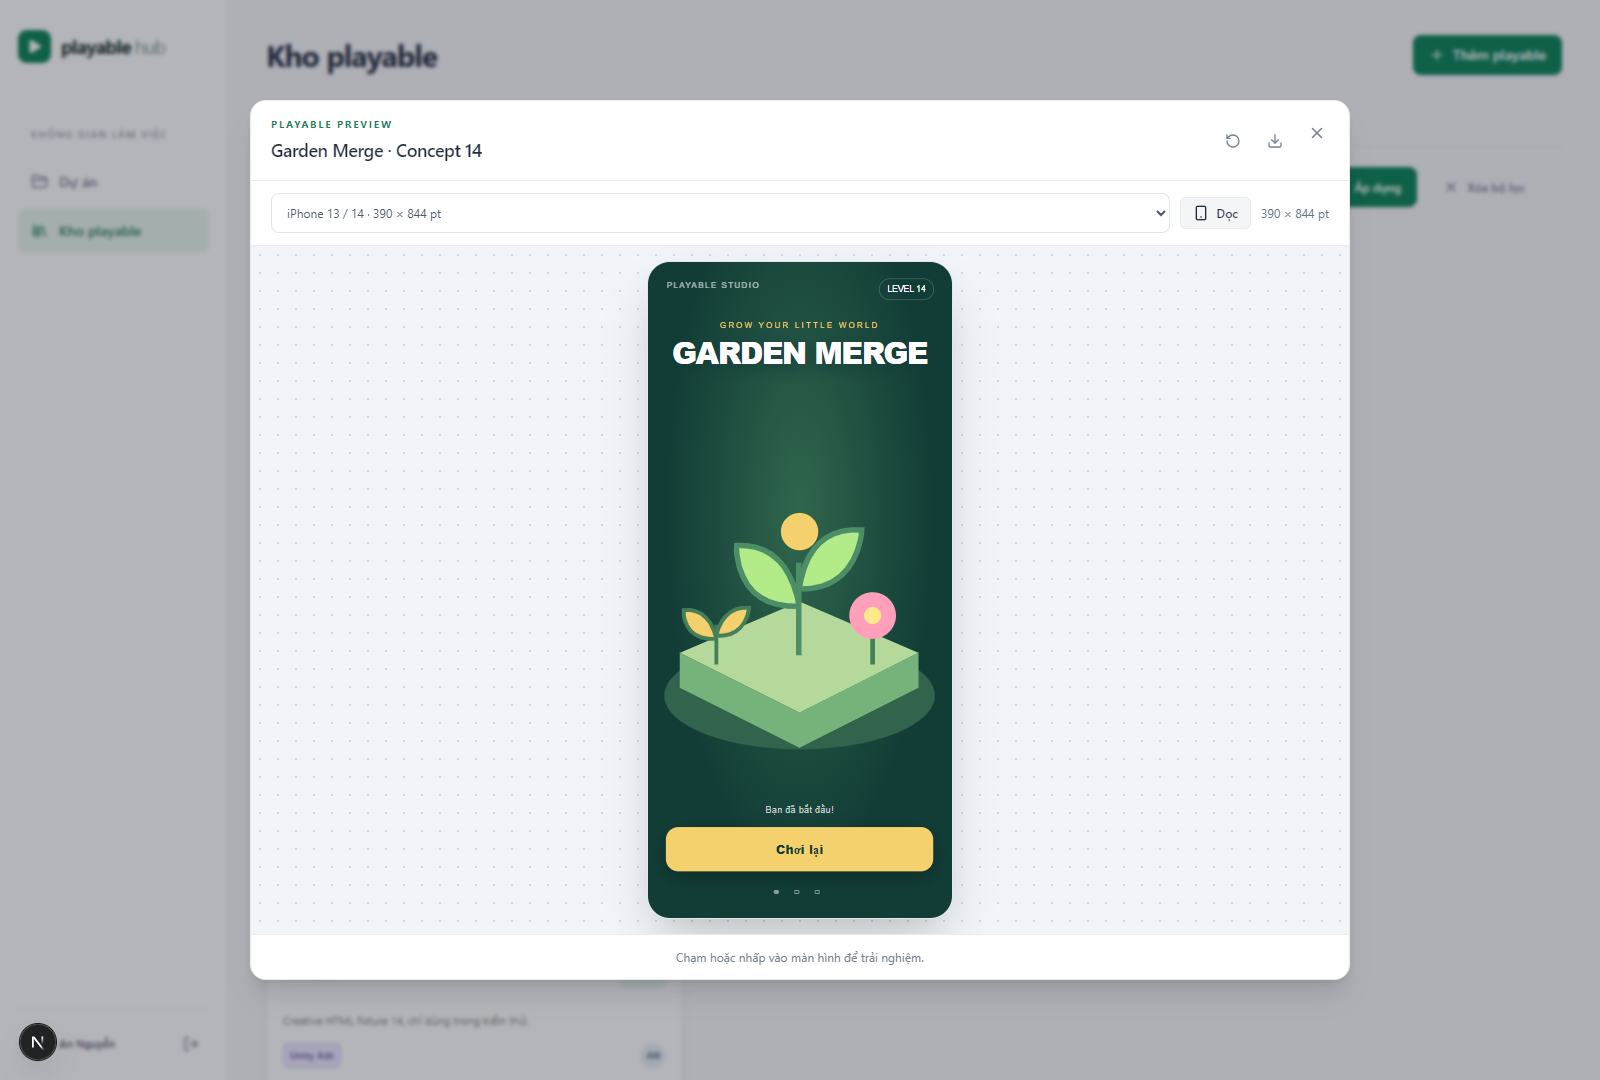
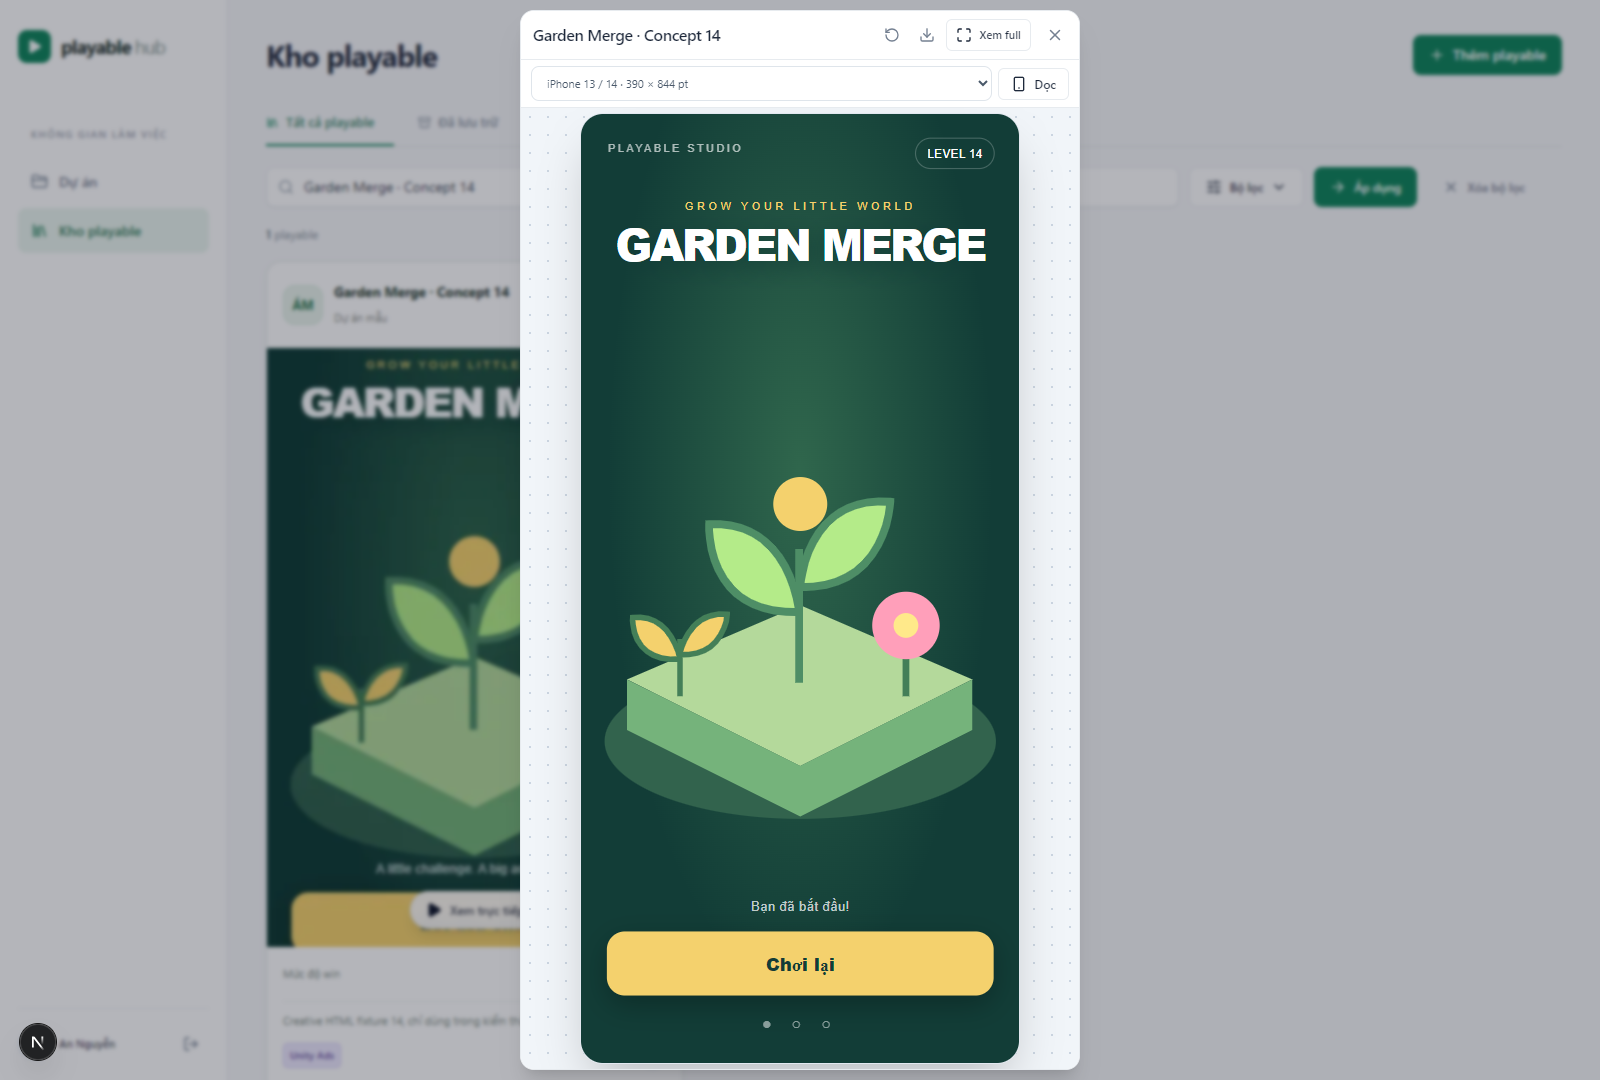
Maximize playable preview area and add immersive fullscreen mode

diff --git a/components/playable-preview.tsx b/components/playable-preview.tsx
@@ -1,7 +1,7 @@
 "use client";
 
-import { useEffect, useId, useState, type ReactNode } from "react";
-import { Download, ExternalLink, Monitor, Play, RotateCcw, Smartphone } from "lucide-react";
+import { useEffect, useId, useRef, useState, type ReactNode } from "react";
+import { Download, ExternalLink, Maximize, Minimize, Monitor, Play, RotateCcw, Smartphone } from "lucide-react";
 import { Dialog, DialogContent, DialogDescription, DialogTitle, DialogTrigger } from "@/components/ui/dialog";
 import { Button } from "@/components/ui/button";
 import { createPreviewDocument, PREVIEW_DEVICES, PREVIEW_SANDBOX, type PreviewPlayable } from "@/lib/preview";
@@ -22,6 +22,9 @@ function PreviewPlayer({ playable }: { playable: PreviewPlayable }) {
   const [state, setState] = useState<LoadState>({ status: "loading" });
   const [reload, setReload] = useState(0);
   const [landscape, setLandscape] = useState(false);
+  const [expanded, setExpanded] = useState(false);
+  const dialog = useRef<HTMLDivElement>(null);
+  const fullscreenOwner = useRef<HTMLElement | null>(null);
   const [deviceId, setDeviceId] = useState<string>(PREVIEW_DEVICES[0].id);
   const deviceSelectId = useId();
   const [loaded, setLoaded] = useState(false);
@@ -30,9 +33,41 @@ function PreviewPlayer({ playable }: { playable: PreviewPlayable }) {
   const device = PREVIEW_DEVICES.find(item => item.id === deviceId) ?? PREVIEW_DEVICES[0];
   const width = landscape ? device.height : device.width;
   const height = landscape ? device.width : device.height;
-  const scale = Math.max(0.1, Math.min(1, (available.width - 32) / width, (available.height - 32) / height));
+  const scale = Math.max(0.01, Math.min((available.width - 12) / width, (available.height - 12) / height));
 
   useEffect(() => beginPreviewPlayback(), []);
+
+  useEffect(() => {
+    const changed = () => {
+      if (fullscreenOwner.current && document.fullscreenElement !== fullscreenOwner.current) {
+        fullscreenOwner.current = null;
+        setExpanded(false);
+      }
+    };
+    document.addEventListener("fullscreenchange", changed);
+    return () => {
+      document.removeEventListener("fullscreenchange", changed);
+      if (fullscreenOwner.current && document.fullscreenElement === fullscreenOwner.current) {
+        void document.exitFullscreen().catch(() => {});
+      }
+    };
+  }, []);
+
+  async function toggleExpanded() {
+    if (expanded) {
+      if (document.fullscreenElement === dialog.current) await document.exitFullscreen().catch(() => {});
+      setExpanded(false);
+      return;
+    }
+    setExpanded(true);
+    const element = dialog.current;
+    // The edge-to-edge layout also works when browser fullscreen is unavailable.
+    if (element && document.fullscreenEnabled && element.requestFullscreen) {
+      fullscreenOwner.current = element;
+      try { await element.requestFullscreen(); }
+      catch { fullscreenOwner.current = null; }
+    }
+  }
 
   useEffect(() => {
     const controller = new AbortController();
@@ -55,13 +90,14 @@ function PreviewPlayer({ playable }: { playable: PreviewPlayable }) {
   function restart() { setLoaded(false); setState({ status: "loading" }); setReload(value => value + 1); }
   const source = state.status === "ready" ? state.source : null;
 
-  return <DialogContent className="preview-dialog flex h-[min(92dvh,880px)] max-w-[1100px] flex-col gap-0 overflow-hidden rounded-2xl p-0 sm:max-w-[1100px]" aria-describedby="preview-description">
-    <div className="flex min-h-20 shrink-0 flex-wrap items-center justify-between gap-3 border-b bg-white px-5 py-4 pr-14">
-      <div className="min-w-0"><span className="mb-1 block text-[10px] font-bold uppercase tracking-[.18em] text-primary">PLAYABLE PREVIEW</span><DialogTitle className="truncate text-lg" aria-label={`Xem trực tiếp ${playable.name}`}>{playable.name}</DialogTitle></div>
-      <div className="flex items-center gap-1.5">
+  return <DialogContent ref={dialog} data-expanded={expanded} data-landscape={landscape} className="preview-dialog flex flex-col gap-0 overflow-hidden p-0" style={expanded ? { translate: "none" } : undefined} aria-describedby="preview-description" onEscapeKeyDown={event => { if (expanded) { event.preventDefault(); void toggleExpanded(); } }}>
+    <div className="preview-header">
+      <DialogTitle className="min-w-0 flex-1 truncate text-base" aria-label={`Xem trực tiếp ${playable.name}`}>{playable.name}</DialogTitle>
+      <div className="preview-actions">
         <Button variant="ghost" size="icon" aria-label="Chạy lại preview" onClick={restart}><RotateCcw /></Button>
         {playable.storage_path && <Button asChild variant="ghost" size="icon"><a href={`/api/files/${playable.id}`} aria-label="Tải playable"><Download /></a></Button>}
         {playable.external_url && <Button asChild variant="ghost" size="icon"><a href={playable.external_url} target="_blank" rel="noopener noreferrer" aria-label="Mở liên kết gốc"><ExternalLink /></a></Button>}
+        <Button variant="outline" size="sm" className="preview-expand-button" aria-label={expanded ? "Thu nhỏ preview" : "Xem toàn màn hình"} title={expanded ? "Thu nhỏ preview" : "Xem toàn màn hình"} aria-pressed={expanded} onClick={() => void toggleExpanded()}>{expanded ? <Minimize /> : <Maximize />}<span>{expanded ? "Thu nhỏ" : "Xem full"}</span></Button>
       </div>
     </div>
     <div className="preview-device-toolbar">
@@ -69,8 +105,8 @@ function PreviewPlayer({ playable }: { playable: PreviewPlayable }) {
       <select id={deviceSelectId} className="select preview-device-select" value={deviceId} onChange={event => setDeviceId(event.target.value)}>
         {PREVIEW_DEVICES.map(item => <option key={item.id} value={item.id}>{item.name} · {item.width} × {item.height} {item.unit}</option>)}
       </select>
-      <Button variant="outline" size="sm" aria-label={landscape ? "Chuyển màn hình dọc" : "Chuyển màn hình ngang"} aria-pressed={landscape} onClick={() => setLandscape(value => !value)}>{landscape ? <Monitor /> : <Smartphone />}{landscape ? "Ngang" : "Dọc"}</Button>
-      <output className="preview-viewport-size" aria-live="polite" aria-label="Kích thước preview">{width} × {height} {device.unit}</output>
+      <Button variant="outline" size="sm" aria-label={landscape ? "Chuyển màn hình dọc" : "Chuyển màn hình ngang"} aria-pressed={landscape} onClick={() => setLandscape(value => !value)}>{landscape ? <Monitor /> : <Smartphone />}<span className="preview-orientation-label">{landscape ? "Ngang" : "Dọc"}</span></Button>
+      <output className="sr-only" aria-live="polite" aria-label="Kích thước preview">{width} × {height} {device.unit}</output>
     </div>
     <div ref={setStage} className="preview-stage relative flex min-h-0 flex-1 items-center justify-center overflow-hidden bg-slate-100" style={{ backgroundImage: "radial-gradient(#cbd5e1 1px, transparent 1px)", backgroundSize: "18px 18px" }}>
       {state.status === "loading" && <div className="preview-shimmer relative overflow-hidden rounded-3xl bg-slate-200" role="status" aria-label="Đang tải preview" style={{ width: width * scale, height: height * scale }}><div className="absolute inset-x-6 bottom-8 h-12 rounded-xl bg-white/45" /><span className="sr-only">Đang tải preview…</span></div>}
@@ -82,6 +118,6 @@ function PreviewPlayer({ playable }: { playable: PreviewPlayable }) {
         </div>
       </div>}
     </div>
-    <DialogDescription id="preview-description" className="shrink-0 border-t bg-white px-5 py-3 text-center text-xs leading-5">{source?.kind === "external" ? <>Nếu trang không hiển thị, <a className="font-medium text-primary underline underline-offset-2" href={source.url} target="_blank" rel="noopener noreferrer">mở liên kết gốc</a>.</> : "Chạm hoặc nhấp vào màn hình để trải nghiệm."}</DialogDescription>
+    <DialogDescription id="preview-description" className="sr-only">Chọn thiết bị, xoay khung hoặc xem toàn màn hình. Nhấp hoặc chạm vào playable để trải nghiệm. Liên kết ngoài có thể được mở bằng nút Mở liên kết gốc.</DialogDescription>
   </DialogContent>;
 }

diff --git a/app/globals.css b/app/globals.css
@@ -176,9 +176,21 @@ a.entity-name:hover { color: var(--primary); }
 .preview-shimmer { position: relative; overflow: hidden; }
 .preview-shimmer::after { content: ""; position: absolute; inset: 0; background: linear-gradient(100deg, transparent 20%, #ffffff80 50%, transparent 80%); transform: translateX(-100%); animation: shimmer 1.6s ease-in-out infinite; pointer-events: none; }
 .playable-cover > button > span { position: absolute; bottom: 18px; font-size: 12px; padding: 10px 15px; }
-.preview-dialog { width: calc(100vw - 32px); }
-.preview-device-toolbar { display: flex; flex-shrink: 0; align-items: center; flex-wrap: wrap; gap: 10px; border-bottom: 1px solid #e7ebef; padding: 12px 20px; background: #fff; }
-.preview-device-select { width: auto; max-width: 100%; min-width: 250px; flex: 1 1 250px; }
+.preview-dialog { width: min(calc(100vw - 20px),560px); height: calc(100dvh - 20px); max-width: none; max-height: calc(100dvh - 20px); border-radius: 14px; }
+.preview-dialog[data-landscape="true"] { width: min(calc(100vw - 20px),1120px); height: min(calc(100dvh - 20px),720px); }
+.preview-dialog[data-expanded="true"] { inset: 0; transform: none; width: 100vw; height: 100dvh; max-width: none; max-height: none; border: 0; border-radius: 0; }
+.preview-dialog::backdrop { background: #f1f5f9; }
+.preview-dialog > button:last-child { top: 8px; right: 8px; width: 32px; height: 32px; }
+.preview-header { display: flex; align-items: center; flex-shrink: 0; gap: 8px; min-height: 48px; padding: 8px 48px 8px 12px; border-bottom: 1px solid #e7ebef; background: white; }
+.preview-actions { display: flex; align-items: center; flex-shrink: 0; gap: 3px; }
+.preview-actions > :is(button,a) { width: 32px; height: 32px; }
+.preview-actions .preview-expand-button { width: auto; padding-inline: 9px; font-size: 11px; }
+.preview-dialog[data-expanded="true"] .preview-device-toolbar { display: none; }
+.preview-dialog[data-expanded="true"] .preview-header { position: absolute; top: 8px; right: 48px; z-index: 20; min-height: 0; padding: 0; border: 0; border-radius: 8px; background: #ffffffe6; }
+.preview-dialog[data-expanded="true"] .preview-header > :first-child,.preview-dialog[data-expanded="true"] .preview-actions > :not(.preview-expand-button) { display: none; }
+.preview-dialog[data-expanded="true"] > button:last-child { z-index: 20; background: #ffffffe6; }
+.preview-device-toolbar { display: flex; flex-shrink: 0; align-items: center; flex-wrap: nowrap; gap: 6px; border-bottom: 1px solid #e7ebef; padding: 6px 10px; background: #fff; }
+.preview-device-select { width: auto; max-width: 100%; min-width: 0; flex: 1 1 0; min-height: 34px; font-size: 11px; }
 .preview-viewport-size { font-size: 12px; font-variant-numeric: tabular-nums; color: #64748b; white-space: nowrap; }
 .network-chip.network-unity,.playable-card .network-chip.network-unity { background: #ede9fe; border-color: #d8ccfa; color: #6235a6; font-weight: 600; }
 .playable-card-win { display: flex; align-items: center; justify-content: space-between; gap: 10px; margin-bottom: 12px; padding-bottom: 12px; border-bottom: 1px solid #edf1ee; }
@@ -186,7 +198,7 @@ a.entity-name:hover { color: var(--primary); }
 .playable-card-win .badge { padding: 6px 9px; font-size: 11px; }
 .playable-card-note { font-size: 11px; line-height: 1.6; color: #6c7b72; margin: -2px 0 12px; overflow: hidden; display: -webkit-box; -webkit-line-clamp: 2; -webkit-box-orient: vertical; overflow-wrap: anywhere; }
 .project-open-button { margin-top: 18px; width: 100%; justify-content: center; }
-@media (max-width: 580px) { .preview-device-toolbar { padding: 10px 14px; gap: 8px; } .preview-device-select { flex-basis: 100%; min-width: 0; } .preview-viewport-size { margin-left: auto; } }
+@media (max-width: 580px) { .preview-dialog,.preview-dialog[data-landscape="true"] { width: 100vw; height: 100dvh; max-height: 100dvh; border: 0; border-radius: 0; } .preview-header { padding-left: 10px; } .preview-expand-button span { display: none; } .preview-orientation-label { display: none; } }
 .filters .search-field { max-width: none; }
 @media (min-width: 1740px) { .playable-grid,.playable-gallery { grid-template-columns: repeat(4,minmax(0,1fr)); } }
 @media (max-width: 1190px) { .playable-grid,.playable-gallery,.project-grid { grid-template-columns: repeat(2,minmax(0,1fr)); } }

diff --git a/tests/e2e/hub.spec.ts b/tests/e2e/hub.spec.ts
@@ -243,16 +243,53 @@ test("HTML covers become static images and live review plays in an isolated resp
   }
   await clickPlayableButton("Bắt đầu chơi");
   await expect(creative.getByText("Bạn đã bắt đầu!", { exact: true })).toBeVisible();
+  expect((await player.locator(".preview-header").boundingBox())!.height).toBeLessThanOrEqual(56);
+  expect((await player.boundingBox())!.width).toBeLessThan(650);
+  expect((await iframe.boundingBox())!.height).toBeGreaterThan(1080 * 0.82);
   await mkdir("artifacts/qa", { recursive: true });
   await page.screenshot({ path: "artifacts/qa/live-preview.png" });
+
+  await player.getByRole("button", { name: "Xem toàn màn hình", exact: true }).click();
+  await expect(player).toHaveAttribute("data-expanded", "true");
+  await expect.poll(() => player.evaluate(element => {
+    const rect = element.getBoundingClientRect();
+    return Math.abs(rect.width - innerWidth) < 2 && Math.abs(rect.height - innerHeight) < 2 && Math.abs(rect.x) < 1 && Math.abs(rect.y) < 1;
+  })).toBe(true);
+  await expect.poll(() => creative.locator("html").evaluate(() => [innerWidth, innerHeight])).toEqual([390, 844]);
+  expect((await iframe.boundingBox())!.height).toBeGreaterThan(1080 * 0.95);
+  await expect(creative.getByText("Bạn đã bắt đầu!", { exact: true })).toBeVisible();
+  await clickPlayableButton("Chơi lại");
+  await page.screenshot({ path: "artifacts/qa/live-preview-fullscreen.png" });
+  await player.focus();
+  await page.keyboard.press("Escape");
+  await expect(player).toHaveAttribute("data-expanded", "false");
+  await expect(player).toBeVisible();
+  await expect.poll(() => page.evaluate(() => document.fullscreenElement === null)).toBe(true);
+
+  // Verify the viewport-filling fallback when native fullscreen is unavailable.
+  await page.evaluate(() => Object.defineProperty(document, "fullscreenEnabled", { configurable: true, value: false }));
+  await player.getByRole("button", { name: "Xem toàn màn hình", exact: true }).click();
+  await expect(player).toHaveAttribute("data-expanded", "true");
+  await expect.poll(() => player.evaluate(element => Math.abs(element.getBoundingClientRect().height - innerHeight) < 2)).toBe(true);
+  await player.getByRole("button", { name: "Thu nhỏ preview", exact: true }).click();
+  await expect(player).toHaveAttribute("data-expanded", "false");
 
   await page.setViewportSize({ width: 390, height: 844 });
   expect(await page.evaluate(() => document.documentElement.scrollWidth <= window.innerWidth + 1)).toBe(true);
   await expect.poll(() => creative.locator("html").evaluate(() => [window.innerWidth, window.innerHeight])).toEqual([390, 844]);
+  expect((await iframe.boundingBox())!.height).toBeGreaterThan(844 * 0.8);
   // Pointer input must still work through the fitted frame on mobile.
   await clickPlayableButton("Chơi lại");
   await expect(creative.getByText("Bạn đã bắt đầu!", { exact: true })).toBeVisible();
   await page.screenshot({ path: "artifacts/qa/live-preview-mobile.png" });
+  await player.getByRole("button", { name: "Xem toàn màn hình", exact: true }).click();
+  await expect(player).toHaveAttribute("data-expanded", "true");
+  await expect.poll(async () => (await iframe.boundingBox())!.height).toBeGreaterThan(844 * 0.95);
+  await expect.poll(() => creative.locator("html").evaluate(() => [innerWidth, innerHeight])).toEqual([390, 844]);
+  await clickPlayableButton("Chơi lại");
+  await page.screenshot({ path: "artifacts/qa/live-preview-mobile-fullscreen.png" });
+  await player.getByRole("button", { name: "Thu nhỏ preview", exact: true }).click();
+  await expect(player).toHaveAttribute("data-expanded", "false");
   await player.focus();
   await page.keyboard.press("Escape");
   await expect(player).toBeHidden();

diff --git a/README.md b/README.md
@@ -15,6 +15,7 @@ Theo yêu cầu mở rộng sau MVP, kho playable dùng **card có ảnh lớn**
 - Mỗi lần chỉ có một tác vụ tải HTML và tạo ảnh. Tác vụ bị hủy khi card ra khỏi vùng nhìn hoặc khi mở trình xem trực tiếp; iframe tạo ảnh được gỡ sau khi hoàn tất. Trình xem có màn hình dọc/ngang, chạy lại và dừng hẳn khi đóng.
 - Trình xem có 7 preset theo kích thước thiết kế: iPhone 13/14 (390 × 844 pt), iPhone 15/16 (393 × 852 pt), iPhone 15 Pro Max (430 × 932 pt), iPhone 16 Pro (402 × 874 pt), iPhone 16 Pro Max (440 × 956 pt), Android phổ biến (360 × 800 dp) và Android màn hình lớn (412 × 915 dp). Viewport HTML giữ đúng số pixel logic đã chọn; chỉ khung hiển thị được thu nhỏ để vừa màn hình. Có thể xoay ngang/dọc mà không tải lại build. Đây là mô phỏng kích thước, không đổi hệ điều hành hoặc trình duyệt đang dùng.
 - Card playable hiển thị rõ mức Win và ghi chú (nếu có), tag Unity Ads có màu tím riêng. Nút **Xem dự án** trên card dự án mở kho playable của đúng dự án.
+- Preview dùng khung dọc gọn, tận dụng chiều cao cửa sổ và tự phóng lớn khi còn chỗ. Nút **Xem full** ẩn thanh thiết bị và mở toàn màn hình, chỉ giữ **Thu nhỏ** và **Đóng**. Escape thoát chế độ full trước; có thể tiếp tục xem trong dialog. Khi trình duyệt không hỗ trợ fullscreen, khung mở rộng kín cửa sổ ứng dụng. Đổi chế độ không tải lại playable và vẫn giữ đúng viewport thiết bị.
 - HTML chạy trong iframe có origin cách ly, chỉ bật script; không truy cập phiên đăng nhập hoặc DOM ứng dụng. Server xác thực và áp dụng RLS trước khi cấp URL ngắn hạn; trình duyệt tải file trực tiếp từ Storage rồi chuyển nội dung HTML vào sandbox.
 - HTML cần đóng gói tài nguyên bên trong file hoặc dùng URL tuyệt đối. Tài nguyên ngoài bị chặn CORS, canvas không cho đọc ảnh hoặc HTML chưa sẵn sàng có thể khiến ảnh tự động không tạo được; khi đó có thể tải ảnh riêng và vẫn mở trình xem. Ảnh bìa là một khung hình tham khảo, không phải kết quả đánh giá Win.
 - URL ngoài có thể xem trong iframe nếu website nguồn cho phép; luôn có liên kết mở bản gốc. Không tự chụp ảnh URL ngoài. ZIP vẫn tải xuống, không giải nén hoặc thực thi trong ứng dụng; có thể bổ sung URL để xem thử.
